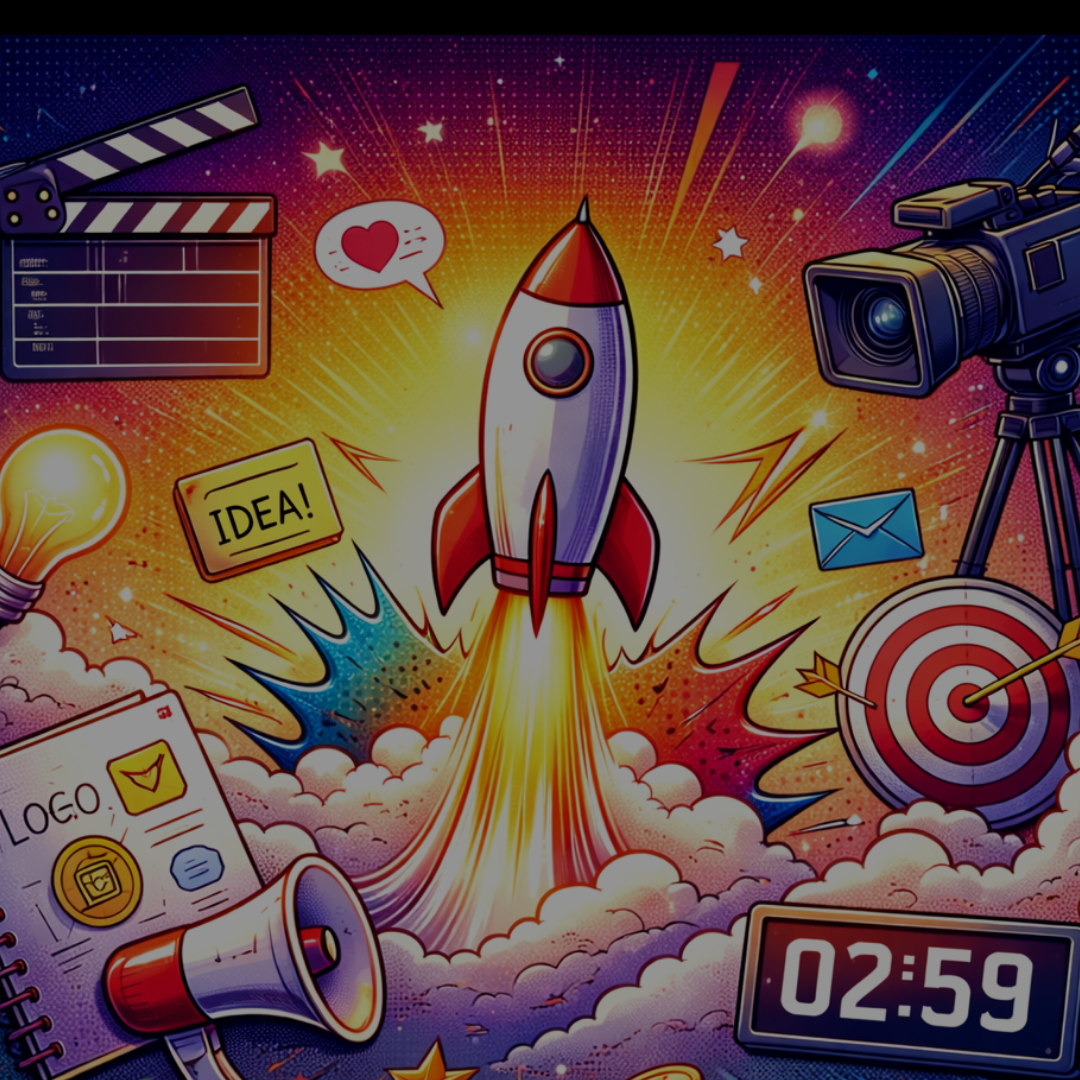
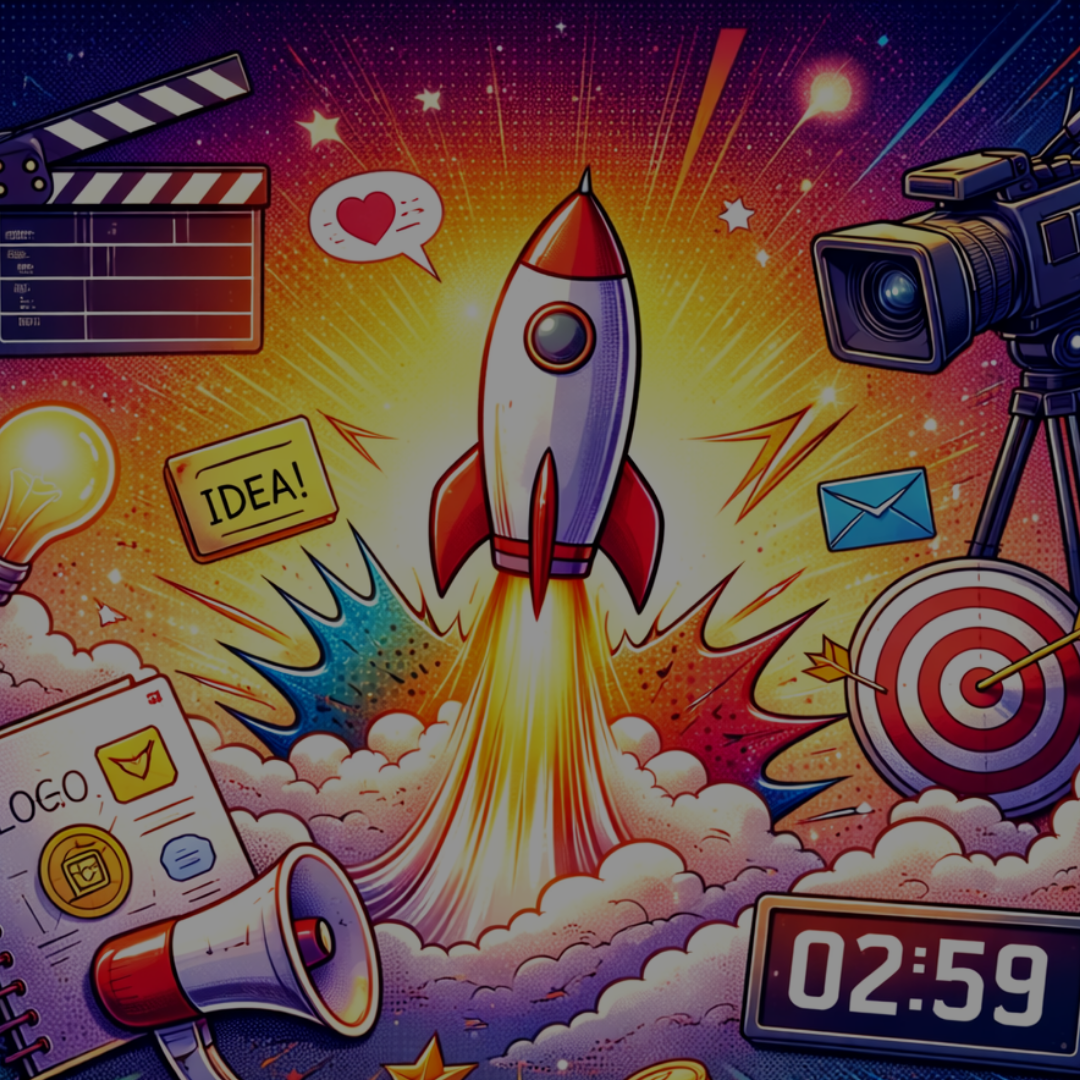
Event Cards

diff --git a/data/events.js b/data/events.js
@@ -1,41 +1,41 @@
 export const events = [
 
     {
-    slug: "treasure-hunt",
-    title: "Treasure Hunt",
-    description: '"Solve clues, unlock rounds, and race to claim the ultimate treasure."',
-    category: "Fun Event",
-    categoryColor: "yellow",
-    participants: "Open",
-    minTeamSize: 3,
-    maxTeamSize: 4,
-    image: "/cards/TreasureHunt.webp",
-    imageAlt: "Teams solving clues across venue locations",
-    longDescription: "Treasure Hunt is a multi-round adventure challenge where teams solve riddles to unlock locations, decode visual mysteries, complete time-bound activity tasks, and ultimately retrieve the final treasure. Observation, coordination, and strategic thinking determine the winners.",
-    rules: [
-        "Teams of 3–4 members",
-        "Each team must nominate one representative during registration",
-        "Tampering with materials leads to disqualification",
-        "Taking multiple clues for other teams is prohibited",
-        "Organizers’ decision is final"
-    ],
-    schedule: "March 17 — 10:30 AM to 1:30 PM",
-    startTime: "2026-03-17T10:30",
-    endTime: "2026-03-17T13:30",
-    venue: "Amphitheatre",
-    sheetId: "1GptdkuMjZhiMtkAxOzJWEiXuwLVuN8Ox3WZRz7vARH8",
-    whatsapp_link: "https://chat.whatsapp.com/FTp13ZXesYG3rXS2LOm0Q9?mode=gi_t",
-    coordinators: [
-        {
-            name: "Gayatri",
-            phone: "+918897748027"
-        },
-        {
-            name: "Sangamesh",
-            phone: "8123012983"
-        }
-    ]
-},
+        slug: "treasure-hunt",
+        title: "Treasure Hunt",
+        description: '"Solve clues, unlock rounds, and race to claim the ultimate treasure."',
+        category: "Fun Event",
+        categoryColor: "yellow",
+        participants: "Open",
+        minTeamSize: 3,
+        maxTeamSize: 4,
+        image: "/cards/TreasureHunt.png",
+        imageAlt: "Teams solving clues across venue locations",
+        longDescription: "Treasure Hunt is a multi-round adventure challenge where teams solve riddles to unlock locations, decode visual mysteries, complete time-bound activity tasks, and ultimately retrieve the final treasure. Observation, coordination, and strategic thinking determine the winners.",
+        rules: [
+            "Teams of 3–4 members",
+            "Each team must nominate one representative during registration",
+            "Tampering with materials leads to disqualification",
+            "Taking multiple clues for other teams is prohibited",
+            "Organizers’ decision is final"
+        ],
+        schedule: "March 17 — 10:30 AM to 1:30 PM",
+        startTime: "2026-03-17T10:30",
+        endTime: "2026-03-17T13:30",
+        venue: "Amphitheatre",
+        sheetId: "1GptdkuMjZhiMtkAxOzJWEiXuwLVuN8Ox3WZRz7vARH8",
+        whatsapp_link: "https://chat.whatsapp.com/FTp13ZXesYG3rXS2LOm0Q9?mode=gi_t",
+        coordinators: [
+            {
+                name: "Gayatri",
+                phone: "+918897748027"
+            },
+            {
+                name: "Sangamesh",
+                phone: "8123012983"
+            }
+        ]
+    },
 
     {
         slug: "ad-venture",
@@ -74,41 +74,41 @@ export const events = [
         ]
     },
 
-   {
-    slug: "creative-circuit",
-    title: "Creative Circuit",
-    description: '"Pixel precision, rapid trivia, and high-constraint design under pressure."',
-    category: "Creative",
-    categoryColor: "purple",
-    participants: "Open",
-    minTeamSize: 2,
-    maxTeamSize: 3,
-    image: "/cards/CreativeCircuit.png",
-    imageAlt: "Teams designing and competing in creative rounds",
-    longDescription: "Creative Circuit is a three-round competition testing design accuracy, reflex thinking, and creative problem-solving under constraints. Teams compete in a pixel-accuracy design sprint, design and tech trivia round , a final design challenge where there's one element of surprise.",
-    rules: [
-        "Teams of 2–3 members",
-        "Round 1: Pixel Perfect – 2 stipulated design games (15–20 mins)",
-        "Round 2: Trivia – 30 seconds per question (15–20 mins)",
-        "Round 3: Design Glitch – 25 mins design + 5 min explanation",
-    ],
-    schedule: "March 18 — 10:00 AM to 1:00 PM",
-    startTime: "2026-03-18T10:00",
-    endTime: "2026-03-18T13:00",
-    venue: "506, NEB",
-    sheetId: "1fGQtadd4nFn3IIOWDqkUy3BXEwVdHo4GOt5pVPu5jCU",
-    whatsapp_link: "https://chat.whatsapp.com/JIkmWSmmRTeCCFERAQUhiO?mode=gi_t",
-    coordinators: [
-        {
-            name: "Nidhi",
-            phone: "+919901901072"
-        },
-        {
-            name: "Rishi",
-            phone: "7483842676"
-        }
-    ]
-},
+    {
+        slug: "creative-circuit",
+        title: "Creative Circuit",
+        description: '"Pixel precision, rapid trivia, and high-constraint design under pressure."',
+        category: "Creative",
+        categoryColor: "purple",
+        participants: "Open",
+        minTeamSize: 2,
+        maxTeamSize: 3,
+        image: "/cards/CreativeCircuit.png",
+        imageAlt: "Teams designing and competing in creative rounds",
+        longDescription: "Creative Circuit is a three-round competition testing design accuracy, reflex thinking, and creative problem-solving under constraints. Teams compete in a pixel-accuracy design sprint, design and tech trivia round , a final design challenge where there's one element of surprise.",
+        rules: [
+            "Teams of 2–3 members",
+            "Round 1: Pixel Perfect – 2 stipulated design games (15–20 mins)",
+            "Round 2: Trivia – 30 seconds per question (15–20 mins)",
+            "Round 3: Design Glitch – 25 mins design + 5 min explanation",
+        ],
+        schedule: "March 18 — 10:00 AM to 1:00 PM",
+        startTime: "2026-03-18T10:00",
+        endTime: "2026-03-18T13:00",
+        venue: "506, NEB",
+        sheetId: "1fGQtadd4nFn3IIOWDqkUy3BXEwVdHo4GOt5pVPu5jCU",
+        whatsapp_link: "https://chat.whatsapp.com/JIkmWSmmRTeCCFERAQUhiO?mode=gi_t",
+        coordinators: [
+            {
+                name: "Nidhi",
+                phone: "+919901901072"
+            },
+            {
+                name: "Rishi",
+                phone: "7483842676"
+            }
+        ]
+    },
 
     {
         slug: "game-of-tycoons",
@@ -210,10 +210,10 @@ export const events = [
             {
                 name: "Akshat Mishra",
                 phone: "+919993269938"
-            } ,
+            },
             {
-              name: "Rishika Kumari",
-              phone: "8660349797"
+                name: "Rishika Kumari",
+                phone: "8660349797"
             }
         ]
     },
@@ -263,7 +263,7 @@ export const events = [
         participants: "Open",
         minTeamSize: 1,
         maxTeamSize: 2,
-        image: "/cards/Entropy.webp",
+        image: "/cards/Entropy.png",
         imageAlt: "Participants interacting with AI challenge",
         longDescription: "Participants use advanced prompt engineering techniques to bypass logical boundaries and extract hidden flags embedded within an AI model under strict time constraints.",
         rules: [
